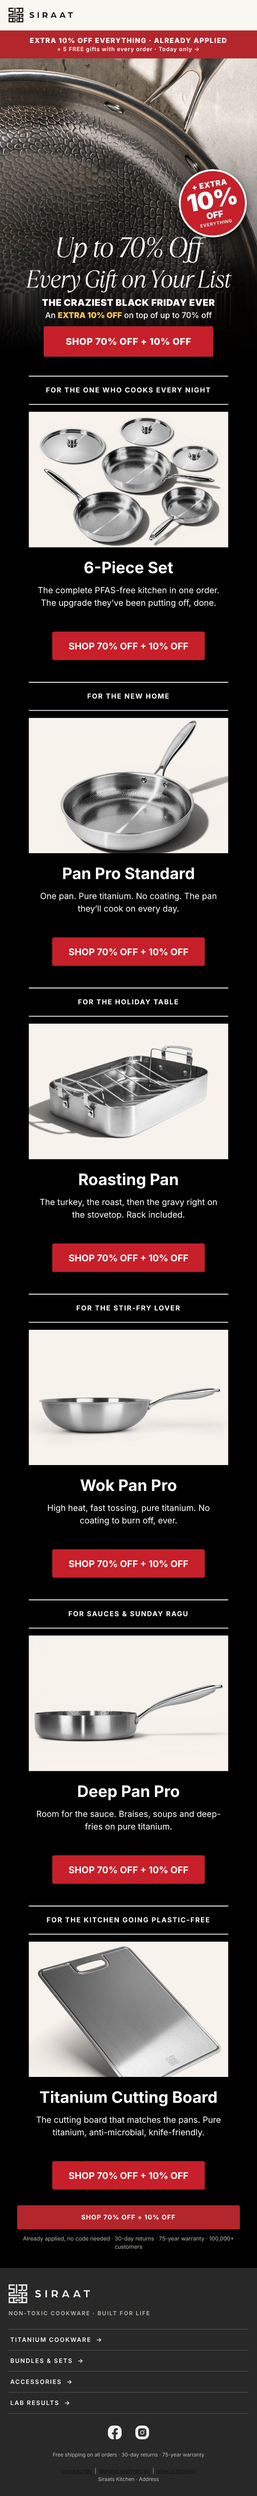
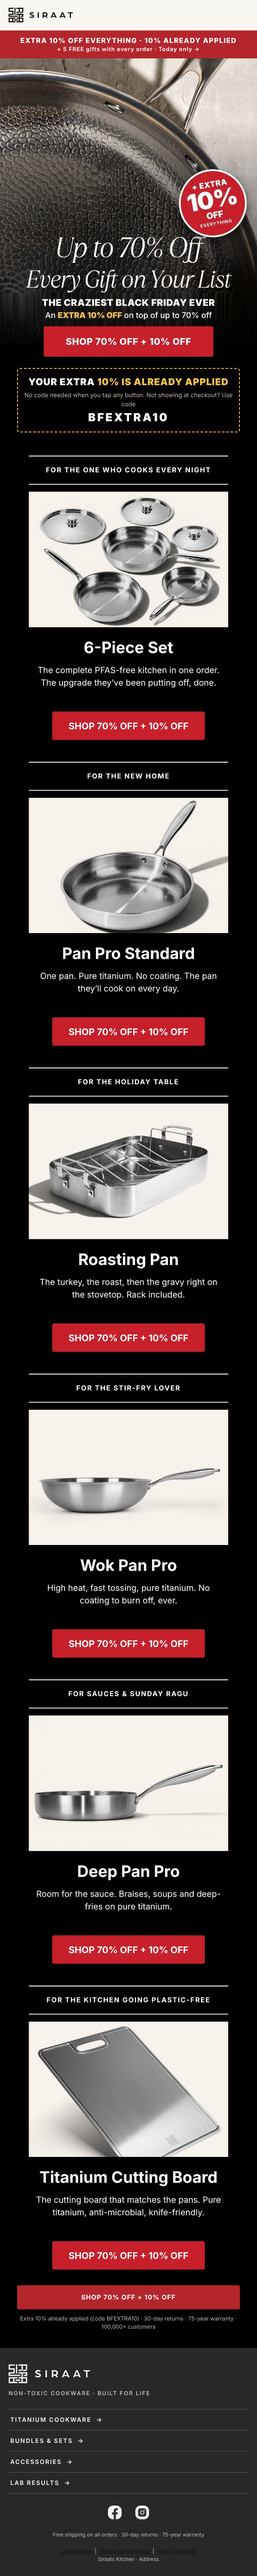
INTL 08:00: already-applied code box
Claude-Session: https://claude.ai/code/session_01HjCaDE95ohEXY6DPZTSH67

diff --git a/klaviyo/templates/v3/campaigns/bf-1127/_tools/.preview/intl-0800-bfextra10.html b/klaviyo/templates/v3/campaigns/bf-1127/_tools/.preview/intl-0800-bfextra10.html
@@ -17,15 +17,16 @@
   </tr></table>
 </td></tr>
 
-<tr><td bgcolor="#B3262C" style="background-color:#B3262C;padding:12px 10px;text-align:center;font-family:Inter,Arial,Helvetica,sans-serif;"><a href="https://siraatskitchen.com/discount/BFEXTRA10?redirect=/collections/black-friday-sale&utm_source=klaviyo&utm_medium=email&utm_campaign=bf-1127-intl-0800&utm_content=bar" style="text-decoration:none;color:#FFFFFF;"><span style="display:block;font-size:16px;line-height:22px;font-weight:800;letter-spacing:1.5px;color:#FFFFFF;">EXTRA 10% OFF EVERYTHING &middot; ALREADY APPLIED</span><span style="display:block;font-size:13px;line-height:19px;font-weight:600;letter-spacing:1px;color:#FFFFFF;">+ 5 FREE gifts with every order &middot; Today only &rarr;</span></a></td></tr>
+<tr><td bgcolor="#B3262C" style="background-color:#B3262C;padding:12px 10px;text-align:center;font-family:Inter,Arial,Helvetica,sans-serif;"><a href="https://siraatskitchen.com/discount/BFEXTRA10?redirect=/collections/black-friday-sale&utm_source=klaviyo&utm_medium=email&utm_campaign=bf-1127-intl-0800&utm_content=bar" style="text-decoration:none;color:#FFFFFF;"><span style="display:block;font-size:16px;line-height:22px;font-weight:800;letter-spacing:1.5px;color:#FFFFFF;">EXTRA 10% OFF EVERYTHING &middot; 10% ALREADY APPLIED</span><span style="display:block;font-size:13px;line-height:19px;font-weight:600;letter-spacing:1px;color:#FFFFFF;">+ 5 FREE gifts with every order &middot; Today only &rarr;</span></a></td></tr>
 <tr><td bgcolor="#000000" style="padding:0;background-color:#000000;font-size:0;line-height:0;"><a href="https://siraatskitchen.com/discount/BFEXTRA10?redirect=/collections/black-friday-sale&utm_source=klaviyo&utm_medium=email&utm_campaign=bf-1127-intl-0800&utm_content=hero"><img src="https://cdn.klaviyomail.com/company/TdtTzz/images/0d65f2c5-31d5-486d-8e9a-dac5240c020a.jpeg" width="600" alt="Up to 70% off. The craziest Black Friday ever: an extra 10% off on top of up to 70% off. SHOP 70% OFF + 10% OFF" style="display:block;width:100%;max-width:600px;height:auto;border:0;"></a></td></tr>
+<tr><td bgcolor="#000000" style="background-color:#000000;padding:6px 40px 30px 40px;"><table role="presentation" width="100%" cellpadding="0" cellspacing="0" border="0"><tr><td align="center" style="border:2px dashed #F2C14E;border-radius:6px;padding:16px 12px;"><div style="font-family:Inter,Arial,Helvetica,sans-serif;font-size:22px;line-height:28px;font-weight:900;letter-spacing:1px;color:#FFFFFF;">YOUR EXTRA <span style="color:#F2C14E;">10% IS ALREADY APPLIED</span></div><div style="font-family:Inter,Arial,Helvetica,sans-serif;font-size:14px;line-height:21px;color:#BDB8B0;padding-top:6px;">No code needed when you tap any button. Not showing at checkout? Use code</div><div style="font-family:Inter,Arial,Helvetica,sans-serif;font-size:26px;line-height:34px;font-weight:900;letter-spacing:4px;color:#FFFFFF;padding-top:4px;">BFEXTRA10</div></td></tr></table></td></tr>
 <tr><td bgcolor="#000000" style="padding:0;background-color:#000000;font-size:0;line-height:0;"><a href="https://siraatskitchen.com/discount/BFEXTRA10?redirect=/products/titanium-hammered-pan-set-with-lids-6-pcs&utm_source=klaviyo&utm_medium=email&utm_campaign=bf-1127-intl-0800&utm_content=b2-6pc"><img src="https://cdn.klaviyomail.com/company/TdtTzz/images/43d3f781-2cf8-4d0b-beb1-018aa9dfc663.jpeg" width="600" alt="For the one who cooks every night: the 6-Piece Set. SHOP 70% OFF + 10% OFF" style="display:block;width:100%;max-width:600px;height:auto;border:0;"></a></td></tr>
 <tr><td bgcolor="#000000" style="padding:0;background-color:#000000;font-size:0;line-height:0;"><a href="https://siraatskitchen.com/discount/BFEXTRA10?redirect=/products/original-siraat-100-pure-titanium-pan-with-hammered-pattern&utm_source=klaviyo&utm_medium=email&utm_campaign=bf-1127-intl-0800&utm_content=b2-std"><img src="https://cdn.klaviyomail.com/company/TdtTzz/images/fb01c41b-32ba-4424-a811-16fccfa13e92.jpeg" width="600" alt="For the new home: Pan Pro Standard. SHOP 70% OFF + 10% OFF" style="display:block;width:100%;max-width:600px;height:auto;border:0;"></a></td></tr>
 <tr><td bgcolor="#000000" style="padding:0;background-color:#000000;font-size:0;line-height:0;"><a href="https://siraatskitchen.com/discount/BFEXTRA10?redirect=/products/titanium-hammered-roasting-pan&utm_source=klaviyo&utm_medium=email&utm_campaign=bf-1127-intl-0800&utm_content=b2-roast"><img src="https://cdn.klaviyomail.com/company/TdtTzz/images/78c0350b-50d8-4cce-b529-2e198f1407ad.jpeg" width="600" alt="For the holiday table: Roasting Pan, rack included. SHOP 70% OFF + 10% OFF" style="display:block;width:100%;max-width:600px;height:auto;border:0;"></a></td></tr>
 <tr><td bgcolor="#000000" style="padding:0;background-color:#000000;font-size:0;line-height:0;"><a href="https://siraatskitchen.com/discount/BFEXTRA10?redirect=/products/titanium-hammered-wok-pan-pro&utm_source=klaviyo&utm_medium=email&utm_campaign=bf-1127-intl-0800&utm_content=b2-wok"><img src="https://cdn.klaviyomail.com/company/TdtTzz/images/aa859bdc-8e5d-4c1d-897f-06c23370cf2b.jpeg" width="600" alt="For the stir-fry lover: Wok Pan Pro. SHOP 70% OFF + 10% OFF" style="display:block;width:100%;max-width:600px;height:auto;border:0;"></a></td></tr>
 <tr><td bgcolor="#000000" style="padding:0;background-color:#000000;font-size:0;line-height:0;"><a href="https://siraatskitchen.com/discount/BFEXTRA10?redirect=/products/titanium-hammered-deep-pan-pro&utm_source=klaviyo&utm_medium=email&utm_campaign=bf-1127-intl-0800&utm_content=b2-deep"><img src="https://cdn.klaviyomail.com/company/TdtTzz/images/95a6e0ba-dad0-4572-abcb-6dc1d077b356.jpeg" width="600" alt="For sauces and Sunday ragu: Deep Pan Pro. SHOP 70% OFF + 10% OFF" style="display:block;width:100%;max-width:600px;height:auto;border:0;"></a></td></tr>
 <tr><td bgcolor="#000000" style="padding:0;background-color:#000000;font-size:0;line-height:0;"><a href="https://siraatskitchen.com/discount/BFEXTRA10?redirect=/products/titanium-cutting-board-v2&utm_source=klaviyo&utm_medium=email&utm_campaign=bf-1127-intl-0800&utm_content=b2-board"><img src="https://cdn.klaviyomail.com/company/TdtTzz/images/ec2d34b8-122c-43c0-9d13-3256f6d820fd.jpeg" width="600" alt="For the plastic-free kitchen: Titanium Cutting Board. SHOP 70% OFF + 10% OFF" style="display:block;width:100%;max-width:600px;height:auto;border:0;"></a></td></tr>
-<tr><td bgcolor="#000000" style="background-color:#000000;padding:10px 40px 40px 40px;"><table role="presentation" width="100%" cellpadding="0" cellspacing="0" border="0"><tr><td align="center" bgcolor="#B3262C" style="background-color:#B3262C;border-radius:4px;"><a href="https://siraatskitchen.com/discount/BFEXTRA10?redirect=/collections/black-friday-sale&utm_source=klaviyo&utm_medium=email&utm_campaign=bf-1127-intl-0800&utm_content=bottom-btn" style="display:block;padding:18px 20px;font-family:Inter,Arial,Helvetica,sans-serif;font-size:15px;line-height:20px;font-weight:700;letter-spacing:1.2px;text-transform:uppercase;color:#FFFFFF;text-decoration:none;">SHOP 70% OFF + 10% OFF</a></td></tr></table><div style="font-family:Inter,Arial,Helvetica,sans-serif;font-size:13px;line-height:19px;color:#BDB8B0;text-align:center;padding-top:12px;">Already applied, no code needed &middot; 30-day returns &middot; 75-year warranty &middot; 100,000+ customers</div></td></tr>
+<tr><td bgcolor="#000000" style="background-color:#000000;padding:10px 40px 40px 40px;"><table role="presentation" width="100%" cellpadding="0" cellspacing="0" border="0"><tr><td align="center" bgcolor="#B3262C" style="background-color:#B3262C;border-radius:4px;"><a href="https://siraatskitchen.com/discount/BFEXTRA10?redirect=/collections/black-friday-sale&utm_source=klaviyo&utm_medium=email&utm_campaign=bf-1127-intl-0800&utm_content=bottom-btn" style="display:block;padding:18px 20px;font-family:Inter,Arial,Helvetica,sans-serif;font-size:15px;line-height:20px;font-weight:700;letter-spacing:1.2px;text-transform:uppercase;color:#FFFFFF;text-decoration:none;">SHOP 70% OFF + 10% OFF</a></td></tr></table><div style="font-family:Inter,Arial,Helvetica,sans-serif;font-size:13px;line-height:19px;color:#BDB8B0;text-align:center;padding-top:12px;">Extra 10% already applied (code BFEXTRA10) &middot; 30-day returns &middot; 75-year warranty &middot; 100,000+ customers</div></td></tr>
 
 <!-- FOOTER (vast, uit partials/footer.html). Gmail-proof (10 okt 2026, research/v6-golive/16-gmail-ios.md): het donkere vlak staat als
      bgcolor-attribuut EN inline background-color op de buitenste cel, op de binnentabel en op elke cel met tekst. Valt een buitenlaag

diff --git a/klaviyo/templates/v3/campaigns/bf-1127/intl-0800-bfextra10.html b/klaviyo/templates/v3/campaigns/bf-1127/intl-0800-bfextra10.html
@@ -17,15 +17,16 @@
   </tr></table>
 </td></tr>
 
-<tr><td bgcolor="#B3262C" style="background-color:#B3262C;padding:12px 10px;text-align:center;font-family:Inter,Arial,Helvetica,sans-serif;"><a href="https://siraatskitchen.com/discount/BFEXTRA10?redirect=/collections/black-friday-sale&utm_source=klaviyo&utm_medium=email&utm_campaign=bf-1127-intl-0800&utm_content=bar" style="text-decoration:none;color:#FFFFFF;"><span style="display:block;font-size:16px;line-height:22px;font-weight:800;letter-spacing:1.5px;color:#FFFFFF;">EXTRA 10% OFF EVERYTHING &middot; ALREADY APPLIED</span><span style="display:block;font-size:13px;line-height:19px;font-weight:600;letter-spacing:1px;color:#FFFFFF;">+ 5 FREE gifts with every order &middot; Today only &rarr;</span></a></td></tr>
+<tr><td bgcolor="#B3262C" style="background-color:#B3262C;padding:12px 10px;text-align:center;font-family:Inter,Arial,Helvetica,sans-serif;"><a href="https://siraatskitchen.com/discount/BFEXTRA10?redirect=/collections/black-friday-sale&utm_source=klaviyo&utm_medium=email&utm_campaign=bf-1127-intl-0800&utm_content=bar" style="text-decoration:none;color:#FFFFFF;"><span style="display:block;font-size:16px;line-height:22px;font-weight:800;letter-spacing:1.5px;color:#FFFFFF;">EXTRA 10% OFF EVERYTHING &middot; 10% ALREADY APPLIED</span><span style="display:block;font-size:13px;line-height:19px;font-weight:600;letter-spacing:1px;color:#FFFFFF;">+ 5 FREE gifts with every order &middot; Today only &rarr;</span></a></td></tr>
 <tr><td bgcolor="#000000" style="padding:0;background-color:#000000;font-size:0;line-height:0;"><a href="https://siraatskitchen.com/discount/BFEXTRA10?redirect=/collections/black-friday-sale&utm_source=klaviyo&utm_medium=email&utm_campaign=bf-1127-intl-0800&utm_content=hero"><img src="https://cdn.klaviyomail.com/company/TdtTzz/images/0d65f2c5-31d5-486d-8e9a-dac5240c020a.jpeg" width="600" alt="Up to 70% off. The craziest Black Friday ever: an extra 10% off on top of up to 70% off. SHOP 70% OFF + 10% OFF" style="display:block;width:100%;max-width:600px;height:auto;border:0;"></a></td></tr>
+<tr><td bgcolor="#000000" style="background-color:#000000;padding:6px 40px 30px 40px;"><table role="presentation" width="100%" cellpadding="0" cellspacing="0" border="0"><tr><td align="center" style="border:2px dashed #F2C14E;border-radius:6px;padding:16px 12px;"><div style="font-family:Inter,Arial,Helvetica,sans-serif;font-size:22px;line-height:28px;font-weight:900;letter-spacing:1px;color:#FFFFFF;">YOUR EXTRA <span style="color:#F2C14E;">10% IS ALREADY APPLIED</span></div><div style="font-family:Inter,Arial,Helvetica,sans-serif;font-size:14px;line-height:21px;color:#BDB8B0;padding-top:6px;">No code needed when you tap any button. Not showing at checkout? Use code</div><div style="font-family:Inter,Arial,Helvetica,sans-serif;font-size:26px;line-height:34px;font-weight:900;letter-spacing:4px;color:#FFFFFF;padding-top:4px;">BFEXTRA10</div></td></tr></table></td></tr>
 <tr><td bgcolor="#000000" style="padding:0;background-color:#000000;font-size:0;line-height:0;"><a href="https://siraatskitchen.com/discount/BFEXTRA10?redirect=/products/titanium-hammered-pan-set-with-lids-6-pcs&utm_source=klaviyo&utm_medium=email&utm_campaign=bf-1127-intl-0800&utm_content=b2-6pc"><img src="https://cdn.klaviyomail.com/company/TdtTzz/images/43d3f781-2cf8-4d0b-beb1-018aa9dfc663.jpeg" width="600" alt="For the one who cooks every night: the 6-Piece Set. SHOP 70% OFF + 10% OFF" style="display:block;width:100%;max-width:600px;height:auto;border:0;"></a></td></tr>
 <tr><td bgcolor="#000000" style="padding:0;background-color:#000000;font-size:0;line-height:0;"><a href="https://siraatskitchen.com/discount/BFEXTRA10?redirect=/products/original-siraat-100-pure-titanium-pan-with-hammered-pattern&utm_source=klaviyo&utm_medium=email&utm_campaign=bf-1127-intl-0800&utm_content=b2-std"><img src="https://cdn.klaviyomail.com/company/TdtTzz/images/fb01c41b-32ba-4424-a811-16fccfa13e92.jpeg" width="600" alt="For the new home: Pan Pro Standard. SHOP 70% OFF + 10% OFF" style="display:block;width:100%;max-width:600px;height:auto;border:0;"></a></td></tr>
 <tr><td bgcolor="#000000" style="padding:0;background-color:#000000;font-size:0;line-height:0;"><a href="https://siraatskitchen.com/discount/BFEXTRA10?redirect=/products/titanium-hammered-roasting-pan&utm_source=klaviyo&utm_medium=email&utm_campaign=bf-1127-intl-0800&utm_content=b2-roast"><img src="https://cdn.klaviyomail.com/company/TdtTzz/images/78c0350b-50d8-4cce-b529-2e198f1407ad.jpeg" width="600" alt="For the holiday table: Roasting Pan, rack included. SHOP 70% OFF + 10% OFF" style="display:block;width:100%;max-width:600px;height:auto;border:0;"></a></td></tr>
 <tr><td bgcolor="#000000" style="padding:0;background-color:#000000;font-size:0;line-height:0;"><a href="https://siraatskitchen.com/discount/BFEXTRA10?redirect=/products/titanium-hammered-wok-pan-pro&utm_source=klaviyo&utm_medium=email&utm_campaign=bf-1127-intl-0800&utm_content=b2-wok"><img src="https://cdn.klaviyomail.com/company/TdtTzz/images/aa859bdc-8e5d-4c1d-897f-06c23370cf2b.jpeg" width="600" alt="For the stir-fry lover: Wok Pan Pro. SHOP 70% OFF + 10% OFF" style="display:block;width:100%;max-width:600px;height:auto;border:0;"></a></td></tr>
 <tr><td bgcolor="#000000" style="padding:0;background-color:#000000;font-size:0;line-height:0;"><a href="https://siraatskitchen.com/discount/BFEXTRA10?redirect=/products/titanium-hammered-deep-pan-pro&utm_source=klaviyo&utm_medium=email&utm_campaign=bf-1127-intl-0800&utm_content=b2-deep"><img src="https://cdn.klaviyomail.com/company/TdtTzz/images/95a6e0ba-dad0-4572-abcb-6dc1d077b356.jpeg" width="600" alt="For sauces and Sunday ragu: Deep Pan Pro. SHOP 70% OFF + 10% OFF" style="display:block;width:100%;max-width:600px;height:auto;border:0;"></a></td></tr>
 <tr><td bgcolor="#000000" style="padding:0;background-color:#000000;font-size:0;line-height:0;"><a href="https://siraatskitchen.com/discount/BFEXTRA10?redirect=/products/titanium-cutting-board-v2&utm_source=klaviyo&utm_medium=email&utm_campaign=bf-1127-intl-0800&utm_content=b2-board"><img src="https://cdn.klaviyomail.com/company/TdtTzz/images/ec2d34b8-122c-43c0-9d13-3256f6d820fd.jpeg" width="600" alt="For the plastic-free kitchen: Titanium Cutting Board. SHOP 70% OFF + 10% OFF" style="display:block;width:100%;max-width:600px;height:auto;border:0;"></a></td></tr>
-<tr><td bgcolor="#000000" style="background-color:#000000;padding:10px 40px 40px 40px;"><table role="presentation" width="100%" cellpadding="0" cellspacing="0" border="0"><tr><td align="center" bgcolor="#B3262C" style="background-color:#B3262C;border-radius:4px;"><a href="https://siraatskitchen.com/discount/BFEXTRA10?redirect=/collections/black-friday-sale&utm_source=klaviyo&utm_medium=email&utm_campaign=bf-1127-intl-0800&utm_content=bottom-btn" style="display:block;padding:18px 20px;font-family:Inter,Arial,Helvetica,sans-serif;font-size:15px;line-height:20px;font-weight:700;letter-spacing:1.2px;text-transform:uppercase;color:#FFFFFF;text-decoration:none;">SHOP 70% OFF + 10% OFF</a></td></tr></table><div style="font-family:Inter,Arial,Helvetica,sans-serif;font-size:13px;line-height:19px;color:#BDB8B0;text-align:center;padding-top:12px;">Already applied, no code needed &middot; 30-day returns &middot; 75-year warranty &middot; 100,000+ customers</div></td></tr>
+<tr><td bgcolor="#000000" style="background-color:#000000;padding:10px 40px 40px 40px;"><table role="presentation" width="100%" cellpadding="0" cellspacing="0" border="0"><tr><td align="center" bgcolor="#B3262C" style="background-color:#B3262C;border-radius:4px;"><a href="https://siraatskitchen.com/discount/BFEXTRA10?redirect=/collections/black-friday-sale&utm_source=klaviyo&utm_medium=email&utm_campaign=bf-1127-intl-0800&utm_content=bottom-btn" style="display:block;padding:18px 20px;font-family:Inter,Arial,Helvetica,sans-serif;font-size:15px;line-height:20px;font-weight:700;letter-spacing:1.2px;text-transform:uppercase;color:#FFFFFF;text-decoration:none;">SHOP 70% OFF + 10% OFF</a></td></tr></table><div style="font-family:Inter,Arial,Helvetica,sans-serif;font-size:13px;line-height:19px;color:#BDB8B0;text-align:center;padding-top:12px;">Extra 10% already applied (code BFEXTRA10) &middot; 30-day returns &middot; 75-year warranty &middot; 100,000+ customers</div></td></tr>
 
 <!-- FOOTER (vast, uit partials/footer.html). Gmail-proof (10 okt 2026, research/v6-golive/16-gmail-ios.md): het donkere vlak staat als
      bgcolor-attribuut EN inline background-color op de buitenste cel, op de binnentabel en op elke cel met tekst. Valt een buitenlaag

diff --git a/klaviyo/templates/v3/campaigns/bf-1127/_tools/build_intl_e15.py b/klaviyo/templates/v3/campaigns/bf-1127/_tools/build_intl_e15.py
@@ -19,14 +19,21 @@ def imgrow(src, href, alt, bg='#000000'):
     return (f'<tr><td bgcolor="{bg}" style="padding:0;background-color:{bg};font-size:0;line-height:0;"><a href="{href}">'
             f'<img src="{src}" width="600" alt="{alt}" style="display:block;width:100%;max-width:600px;height:auto;border:0;"></a></td></tr>\n')
 bar = (f'<tr><td bgcolor="#B3262C" style="background-color:#B3262C;padding:12px 10px;text-align:center;font-family:Inter,Arial,Helvetica,sans-serif;">'
-       f'<a href="{L(SALE, "bar")}" style="text-decoration:none;color:#FFFFFF;"><span style="display:block;font-size:16px;line-height:22px;font-weight:800;letter-spacing:1.5px;color:#FFFFFF;">EXTRA 10% OFF EVERYTHING &middot; ALREADY APPLIED</span>'
+       f'<a href="{L(SALE, "bar")}" style="text-decoration:none;color:#FFFFFF;"><span style="display:block;font-size:16px;line-height:22px;font-weight:800;letter-spacing:1.5px;color:#FFFFFF;">EXTRA 10% OFF EVERYTHING &middot; 10% ALREADY APPLIED</span>'
        f'<span style="display:block;font-size:13px;line-height:19px;font-weight:600;letter-spacing:1px;color:#FFFFFF;">+ 5 FREE gifts with every order &middot; Today only &rarr;</span></a></td></tr>\n')
 body = bar + imgrow(U['hero15-v4-nologo.jpg'], L(SALE, 'hero'), 'Up to 70% off. The craziest Black Friday ever: an extra 10% off on top of up to 70% off. SHOP 70% OFF + 10% OFF')
+codebox = (f'<tr><td bgcolor="#000000" style="background-color:#000000;padding:6px 40px 30px 40px;">'
+           f'<table role="presentation" width="100%" cellpadding="0" cellspacing="0" border="0"><tr><td align="center" style="border:2px dashed #F2C14E;border-radius:6px;padding:16px 12px;">'
+           f'<div style="font-family:Inter,Arial,Helvetica,sans-serif;font-size:22px;line-height:28px;font-weight:900;letter-spacing:1px;color:#FFFFFF;">YOUR EXTRA <span style="color:#F2C14E;">10% IS ALREADY APPLIED</span></div>'
+           f'<div style="font-family:Inter,Arial,Helvetica,sans-serif;font-size:14px;line-height:21px;color:#BDB8B0;padding-top:6px;">No code needed when you tap any button. Not showing at checkout? Use code</div>'
+           f'<div style="font-family:Inter,Arial,Helvetica,sans-serif;font-size:26px;line-height:34px;font-weight:900;letter-spacing:4px;color:#FFFFFF;padding-top:4px;">BFEXTRA10</div>'
+           f'</td></tr></table></td></tr>\n')
+body += codebox
 for f, path, alt in BLOCKS:
     body += imgrow(U[f], L(path, f.split('.')[0]), alt)
 body += (f'<tr><td bgcolor="#000000" style="background-color:#000000;padding:10px 40px 40px 40px;">'
          + g['btn']('SHOP 70% OFF + 10% OFF', L(SALE, 'bottom-btn'))
-         + '<div style="font-family:Inter,Arial,Helvetica,sans-serif;font-size:13px;line-height:19px;color:#BDB8B0;text-align:center;padding-top:12px;">Already applied, no code needed &middot; 30-day returns &middot; 75-year warranty &middot; 100,000+ customers</div></td></tr>\n')
+         + '<div style="font-family:Inter,Arial,Helvetica,sans-serif;font-size:13px;line-height:19px;color:#BDB8B0;text-align:center;padding-top:12px;">Extra 10% already applied (code BFEXTRA10) &middot; 30-day returns &middot; 75-year warranty &middot; 100,000+ customers</div></td></tr>\n')
 h = g['shell']('Extra 10% off everything', 'On top of up to 70% off. Today only.', body)
 # header/footer-links ook via de code
 h = re.sub(r'href="(https://siraatskitchen\.com)(/[^"?]*)?(\?[^"]*)?"',

diff --git a/LOG.md b/LOG.md
@@ -698,3 +698,4 @@ Nieuwste bovenaan. Elke regel: datum, wat er gedaan is, wat het opleverde of wat
 - 2026-11-26 · INTL test-templates UhQ9Pd (E15), UdcTtP (E16), R67EnG (18:00) aangemaakt en naar Lola gestuurd.
 - 2026-11-26 · E15 INTL opnieuw opgebouwd vanuit HS-origineel (vorige versie had footer-stukken tussen de producten door slechte splits): alleen beeld/link-wissels + 1 gekopieerd blok, tagbalans gecontroleerd. Nieuwe tests naar Lola.
 - 2026-11-26 · INTL 08:00 opnieuw gebouwd in eigen schone template (HS-HTML gaf footer-rommel in mail-apps): intl-0800-bfextra10.html, eigen productblokken met CTA 'SHOP 70% OFF + 10% OFF', hero-knop vervangen. Test naar Lola (UhQ9Pd).
+- 2026-11-26 · INTL 08:00: balk '10% ALREADY APPLIED' + codeblok onder hero ('YOUR EXTRA 10% IS ALREADY APPLIED' + backup code BFEXTRA10). Test naar Lola.
